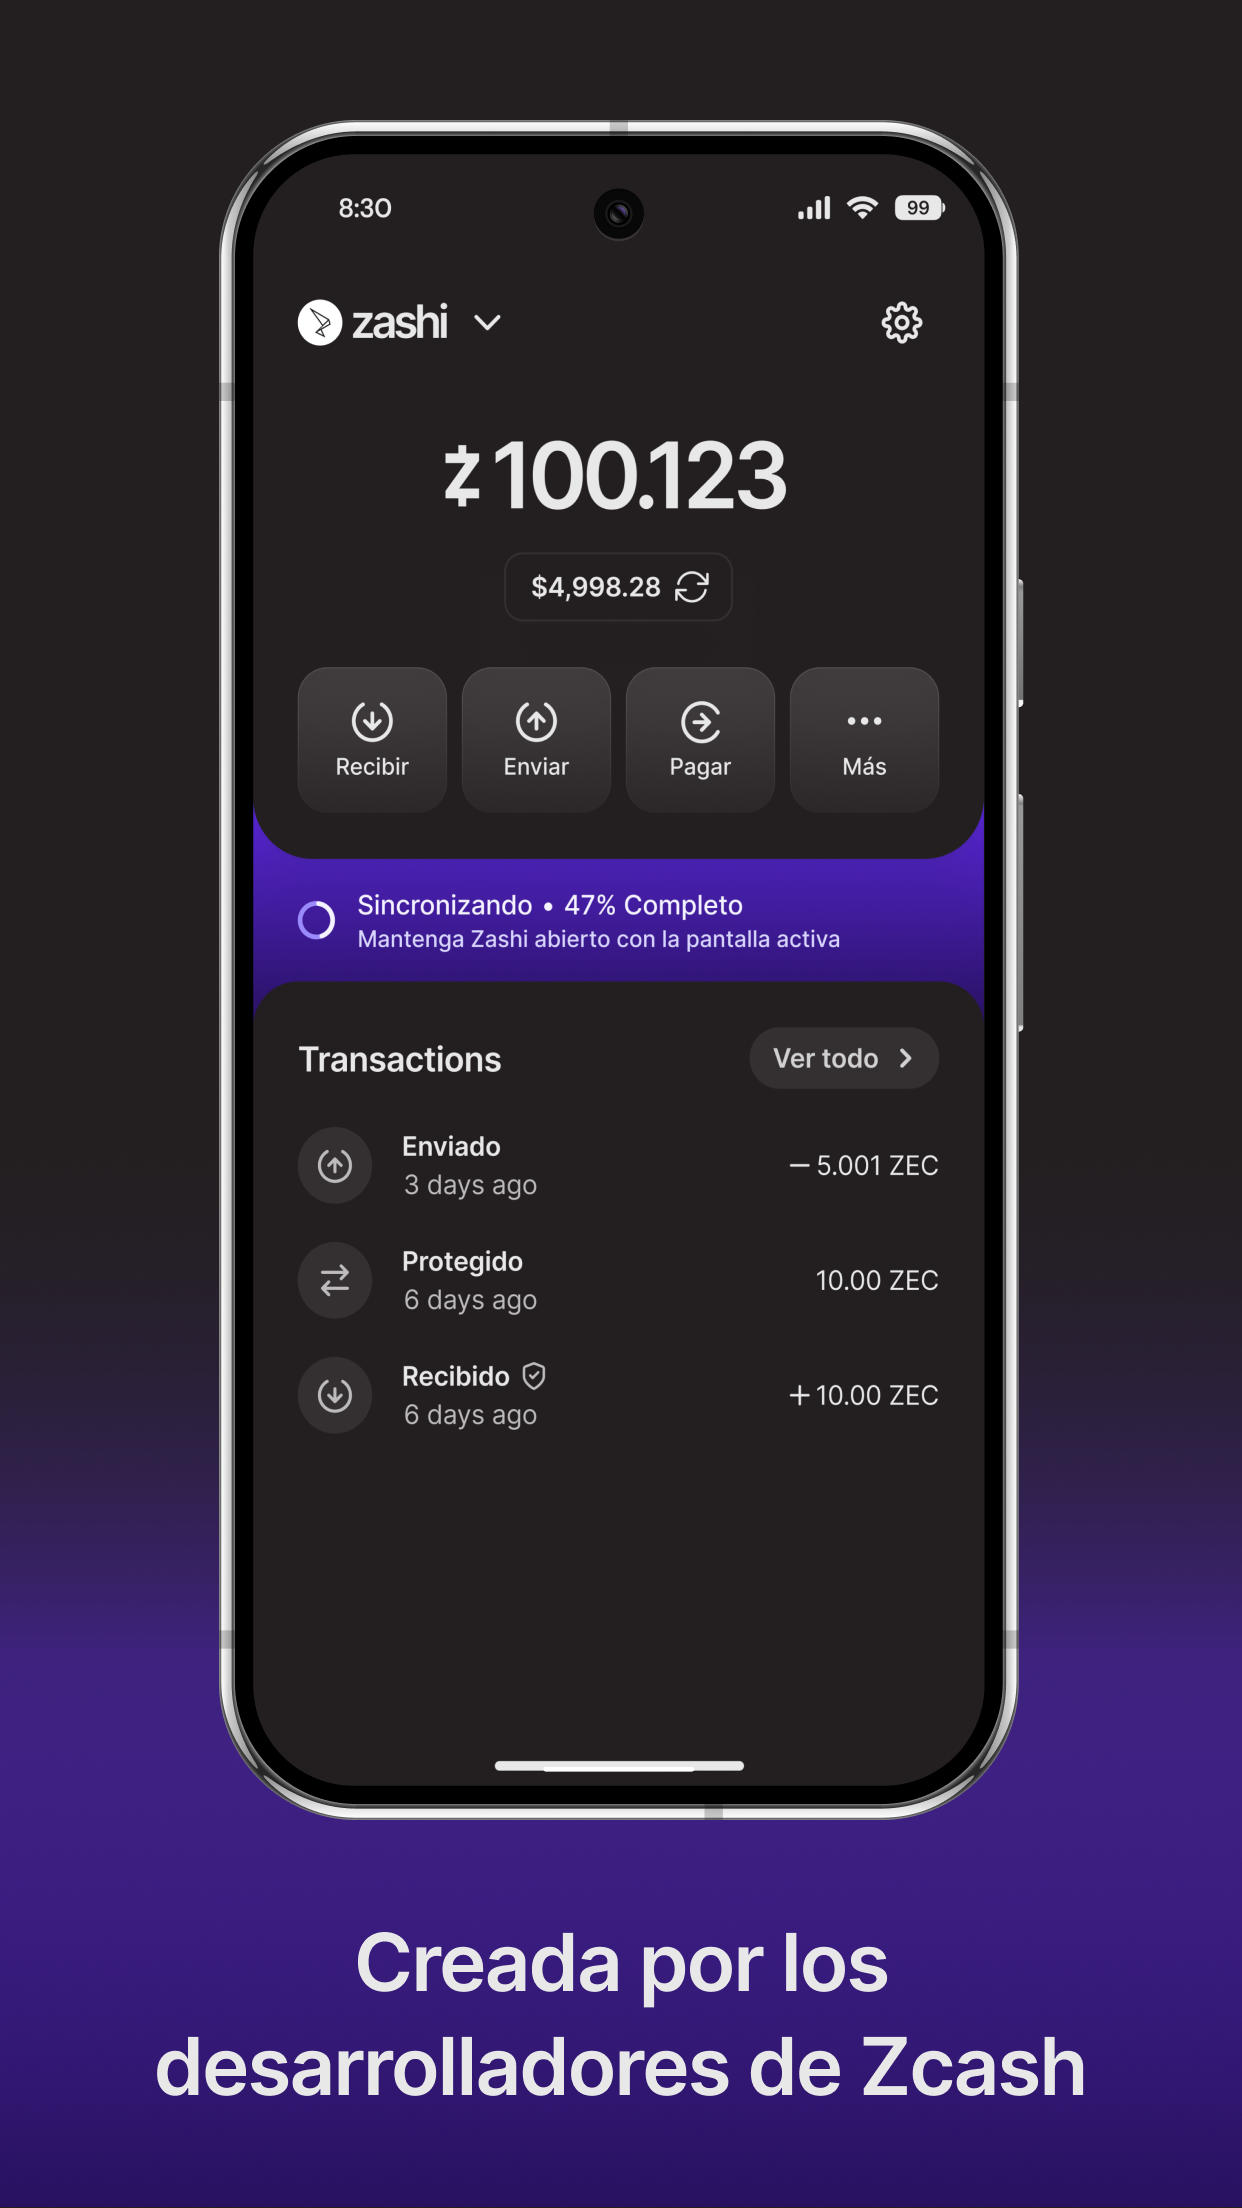
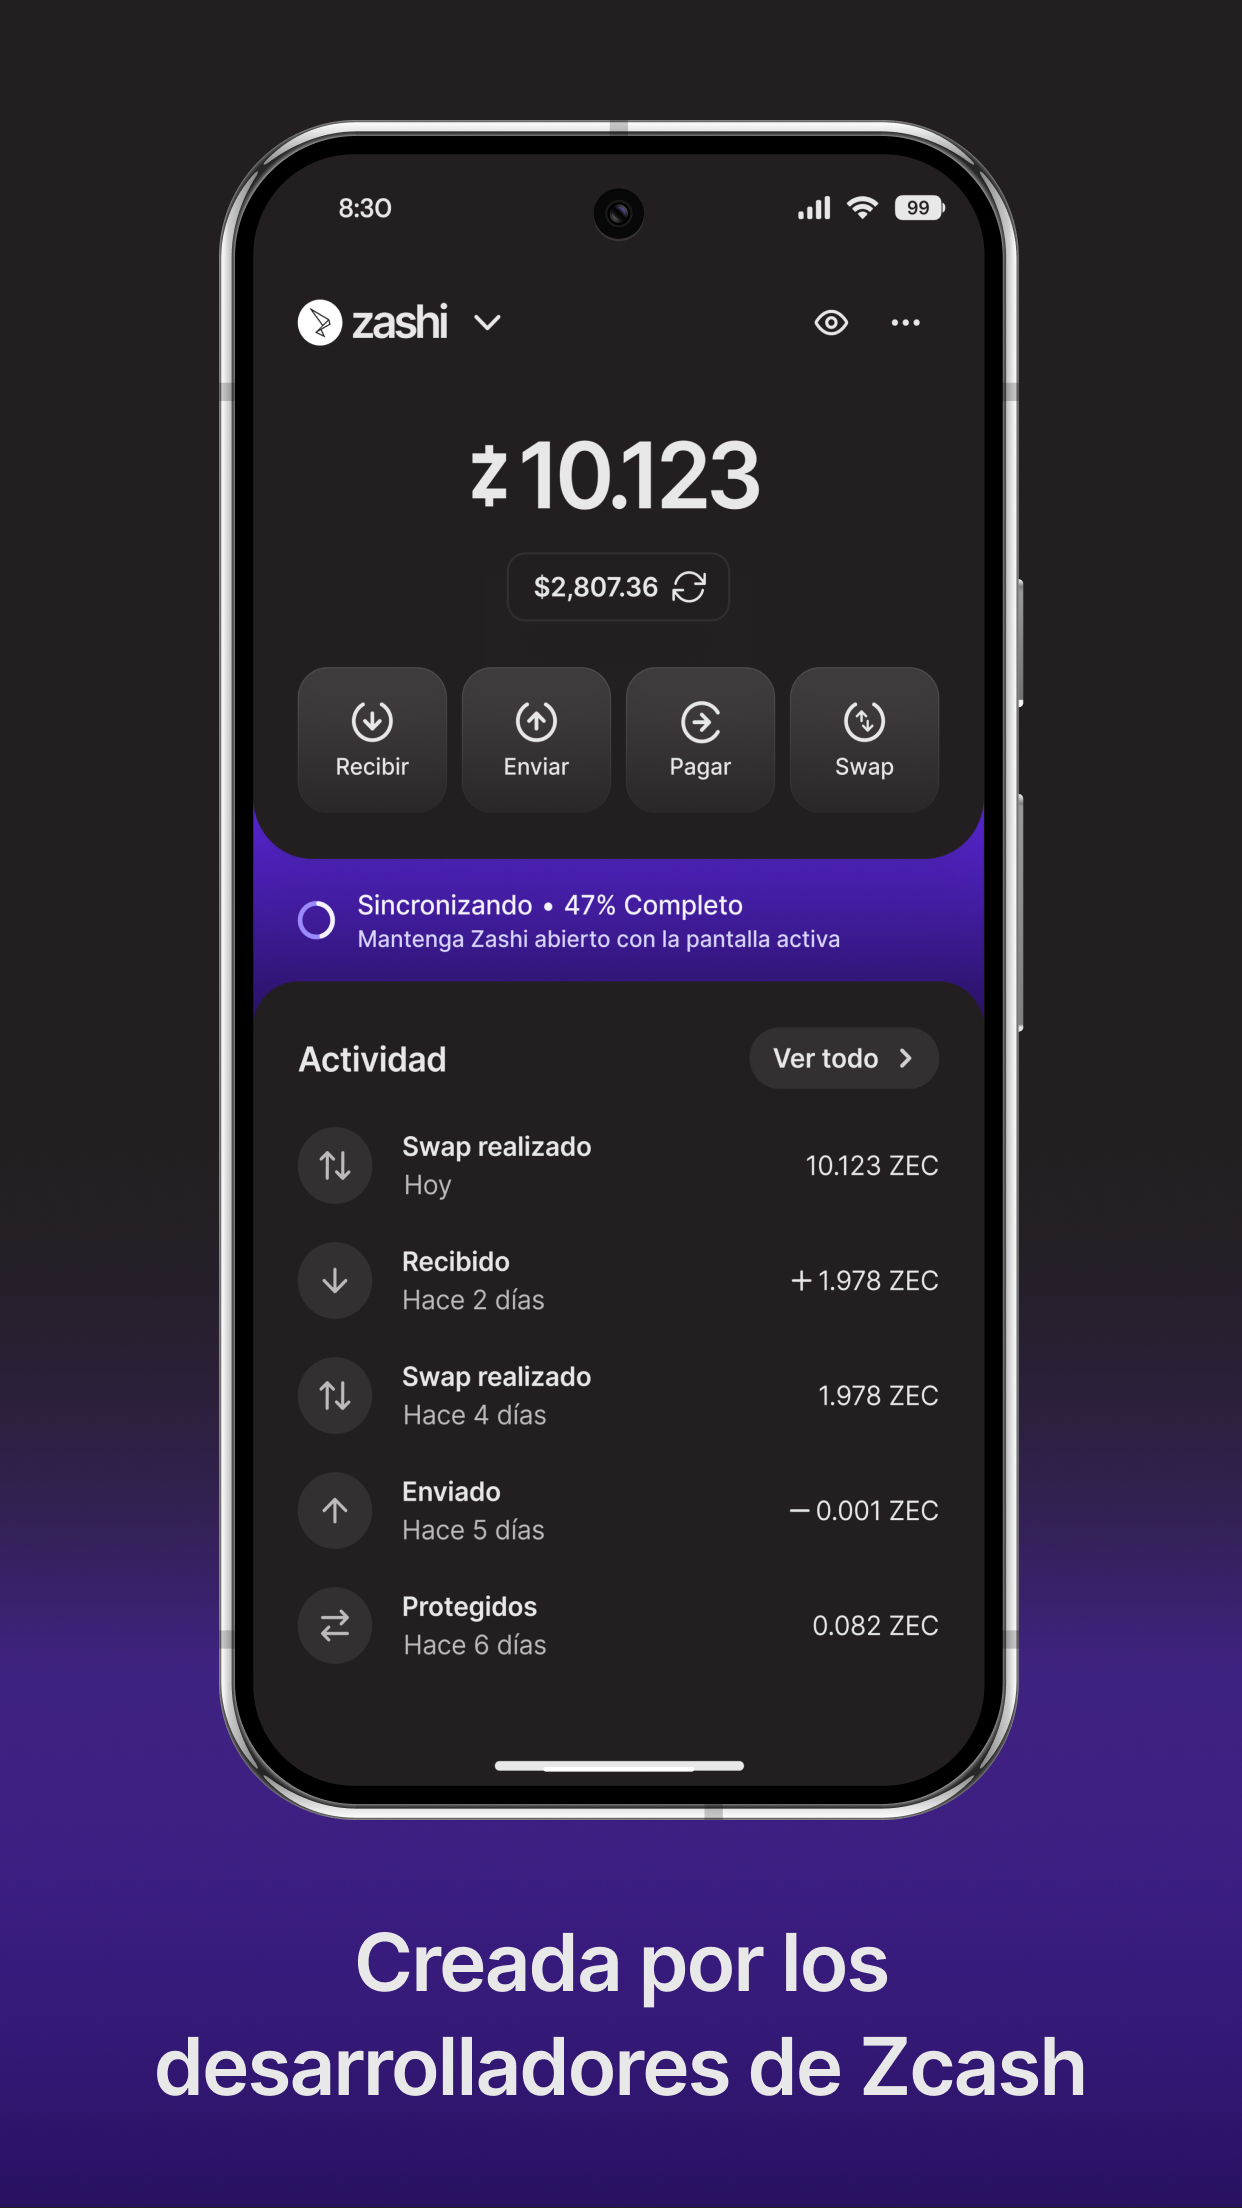
[#2036] [MOB-82] Release: 2.4.10 (1412)  (#2037)
* [#2036] [MOB-82] Release: 2.4.10 (1412)

Closes #2036

* Fdroid resources updated

* Update assets of Solana store

---------

diff --git a/stores/solana/media/README.md b/stores/solana/media/README.md
@@ -17,7 +17,7 @@ This directory contains media assets for the Solana dApp Store listing.
 - **Purpose:** Featured banner image
 
 ### Screenshots
-- **Files:** `slide1.2.png`, `slide2.2.png`, `slide3.2.png`, `slide4.2.png`
+- **Files:** `slide1.2.png`, `slide2.2.png`, `slide3.2.png`, `slide4.2.png`, `slide5.2.png`
 - **Size:** Phone screen resolution (e.g., 1080x2400 px)
 - **Format:** PNG
 - **Purpose:** App screenshots showing features
@@ -31,28 +31,30 @@ This directory contains media assets for the Solana dApp Store listing.
 
 ## References
 
-All media files are referenced in `stores/config.yaml`:
+All media files are referenced in `stores/solana/release-notes-template.yaml`:
 
 ```yaml
 app:
   media:
     - purpose: icon
-      uri: ./solana/media/icon512.png
+      uri: ./media/icon512.png
 
 release:
   media:
     - purpose: icon
-      uri: ./solana/media/icon512.png
+      uri: ./media/icon512.png
     - purpose: banner
-      uri: ./solana/media/banner.png
+      uri: ./media/banner.png
     - purpose: screenshot
-      uri: ./solana/media/slide1.2.png
+      uri: ./media/slide1.2.png
     - purpose: screenshot
-      uri: ./solana/media/slide2.2.png
+      uri: ./media/slide2.2.png
     - purpose: screenshot
-      uri: ./solana/media/slide3.2.png
+      uri: ./media/slide3.2.png
     - purpose: screenshot
-      uri: ./solana/media/slide4.2.png
+      uri: ./media/slide4.2.png
+    - purpose: screenshot
+      uri: ./media/slide5.2.png
 ```
 
 ## Notes
@@ -60,4 +62,3 @@ release:
 - Media files are committed to the repository
 - These files are used during `npx @solana-mobile/dapp-store-cli create release`
 - Update media assets as needed for new releases
-- Do not remove or rename files without updating `config.yaml`

diff --git a/docs/whatsNew/WHATS_NEW_ES.md b/docs/whatsNew/WHATS_NEW_ES.md
@@ -12,6 +12,22 @@ directly impact users rather than highlighting other key architectural updates.*
 
 ## [Unreleased]
 
+## [2.4.10 (1412)] - 2025-12-16
+
+### Añadido:
+- Actualizamos los íconos para de Swap/Pay.
+
+### Cambiado:
+- Introdujimos nuevo estado Pendiente para los flujos de transacciones, que reemplazó nuestros estados de Error.
+- Actualizamos los íconos y las copias.
+- Mejoramos la gestión de errores.
+- Movimos la Conversión de Moneda de la Configuración Avanzada a Más opciones.
+
+### Corregido:
+- Mejoramos la UI/UX de gestión de errores.
+- Mejoramos la experiencia de descarga de parámetros de Sapling.
+- Corregimos varios problemas y fallos reportados.
+
 ## [2.4.9 (1387)] - 2025-12-09
 
 ### Añadido:

diff --git a/docs/whatsNew/WHATS_NEW_EN.md b/docs/whatsNew/WHATS_NEW_EN.md
@@ -12,6 +12,22 @@ directly impact users rather than highlighting other key architectural updates.*
 
 ## [Unreleased]
 
+## [2.4.10 (1412)] - 2025-12-16
+
+### Added:
+- We updated icons for Swap/Pay assets and chains.
+
+### Changed:
+- We introduced a new Pending state for transaction flows which replaced our Error states.
+- We made icon and copy updates.
+- We improved our error handling.
+- We moved Currency Conversion from Advanced Settings to More options.
+
+### Fixed:
+- We improved our error handling UI/UX.
+- We improved Sapling parameters download experience.
+- We fixed some user reported issues and crashes.
+
 ## [2.4.9 (1387)] - 2025-12-09
 
 ### Added:

diff --git a/CHANGELOG.md b/CHANGELOG.md
@@ -6,6 +6,22 @@ and this application adheres to [Semantic Versioning](https://semver.org/spec/v2
 
 ## [Unreleased]
 
+## [2.4.10 (1412)] - 2025-12-16
+
+### Added:
+- We updated icons for Swap/Pay assets and chains.
+
+### Changed:
+- We introduced a new Pending state for transaction flows which replaced our Error states.
+- We made icon and copy updates.
+- We improved our error handling.
+- We moved Currency Conversion from Advanced Settings to More options.
+
+### Fixed:
+- We improved our error handling UI/UX.
+- We improved Sapling parameters download experience.
+- We fixed some user reported issues and crashes.
+
 ## [2.4.9 (1387)] - 2025-12-09
 
 ### Added:
